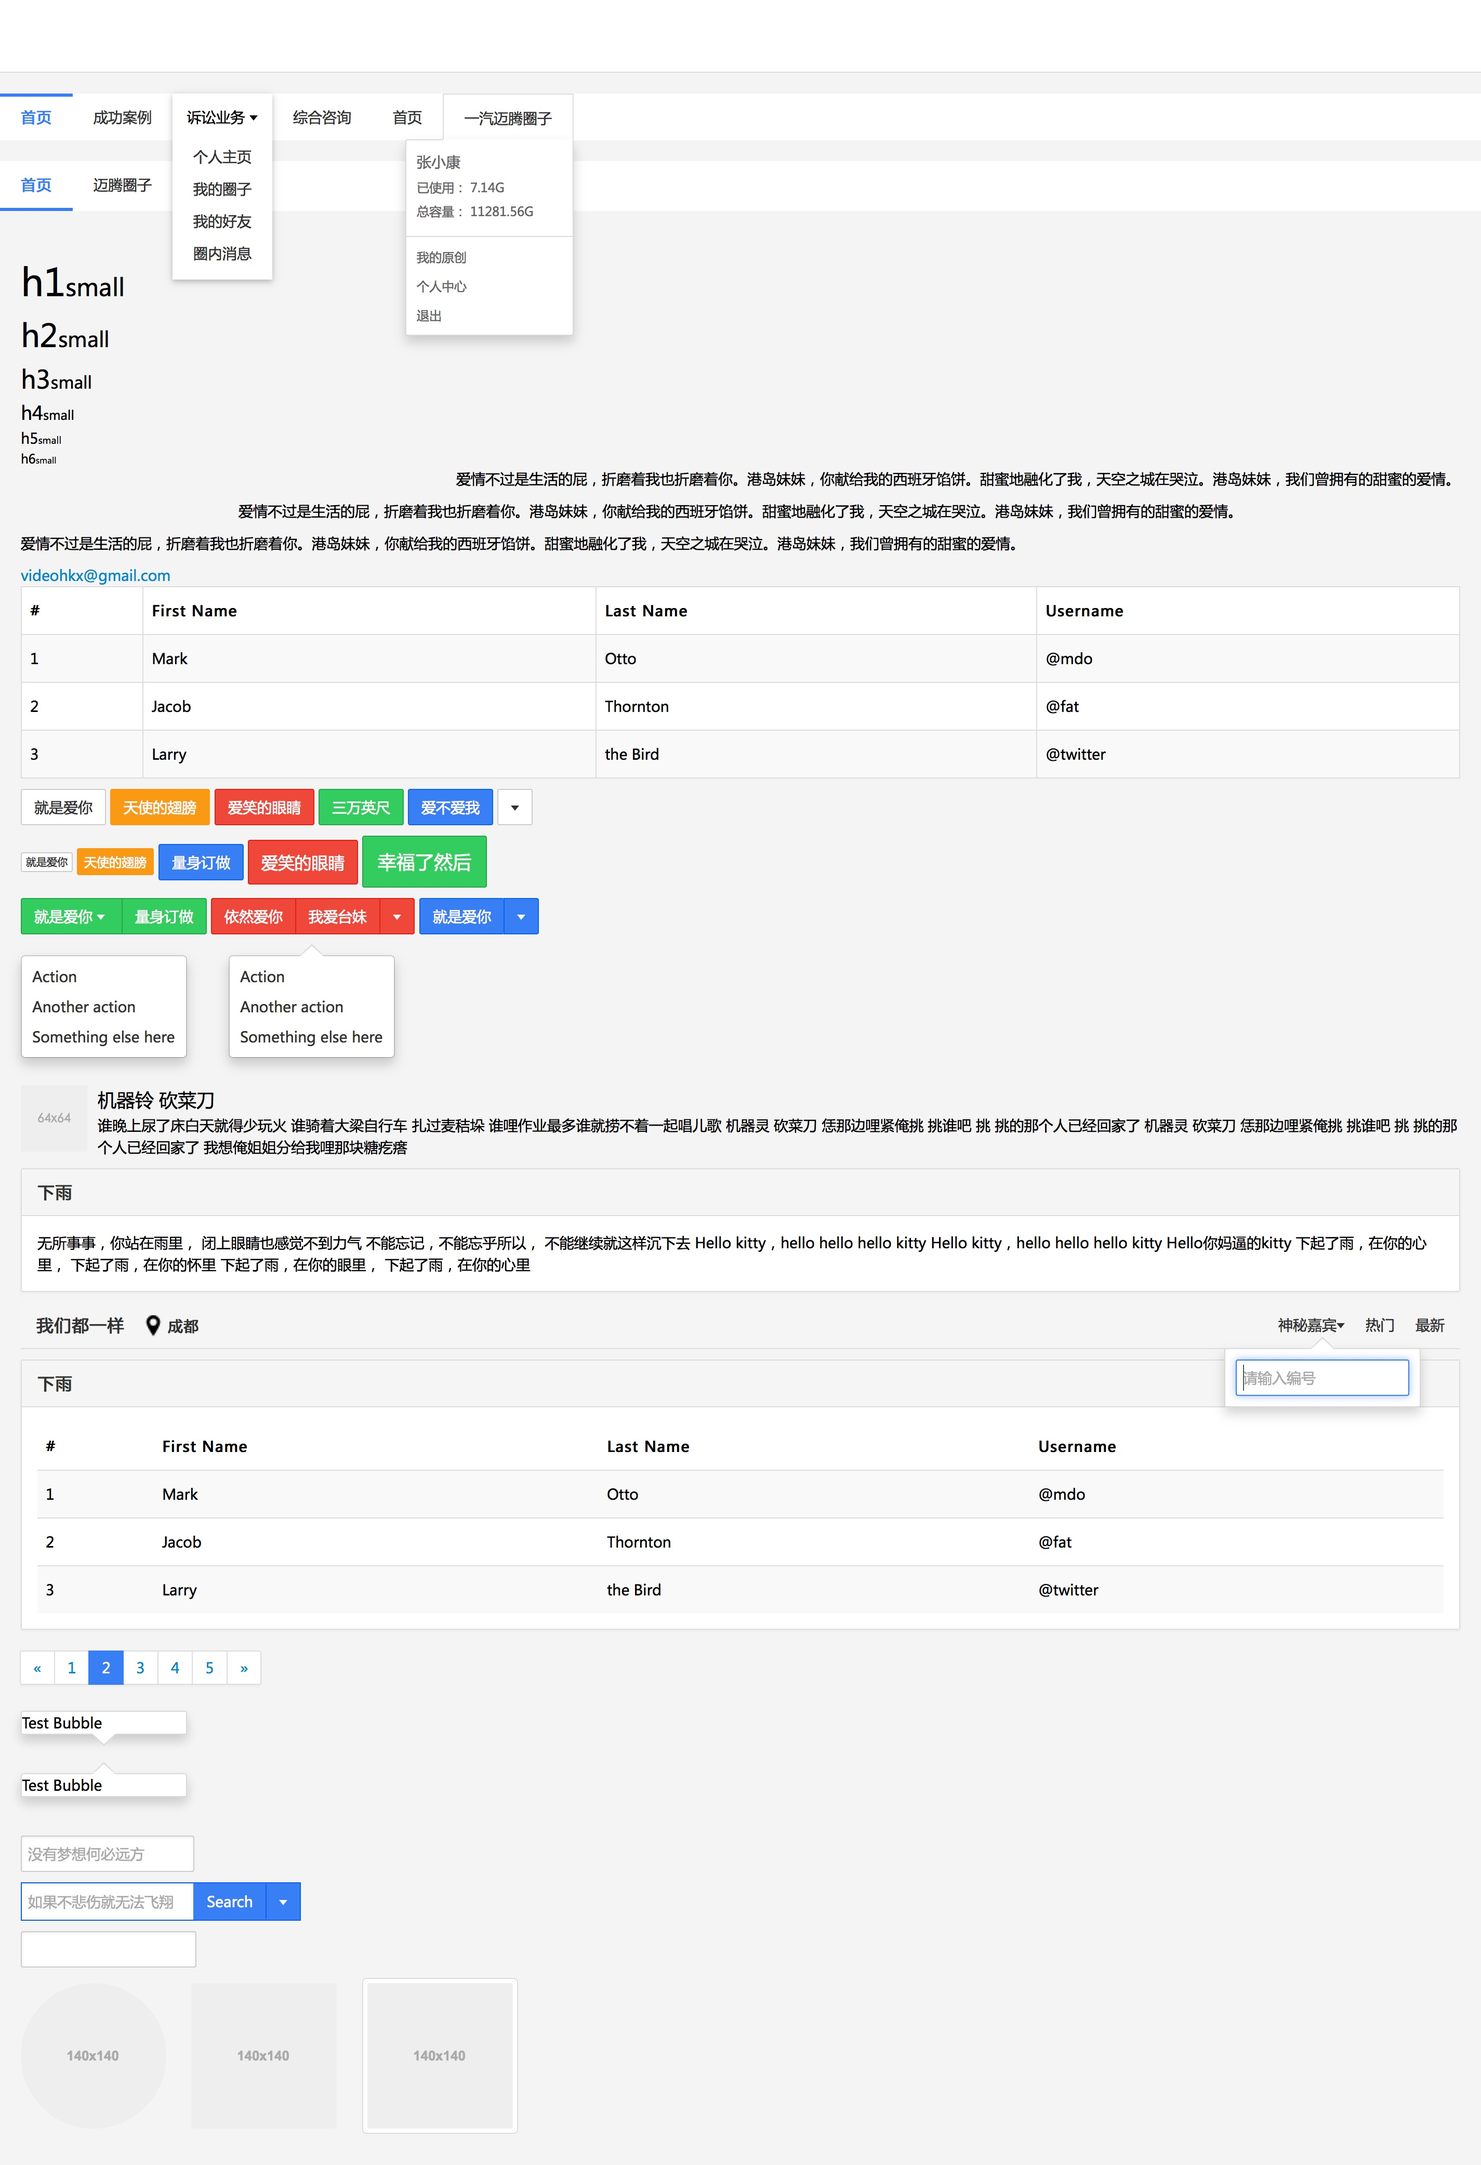
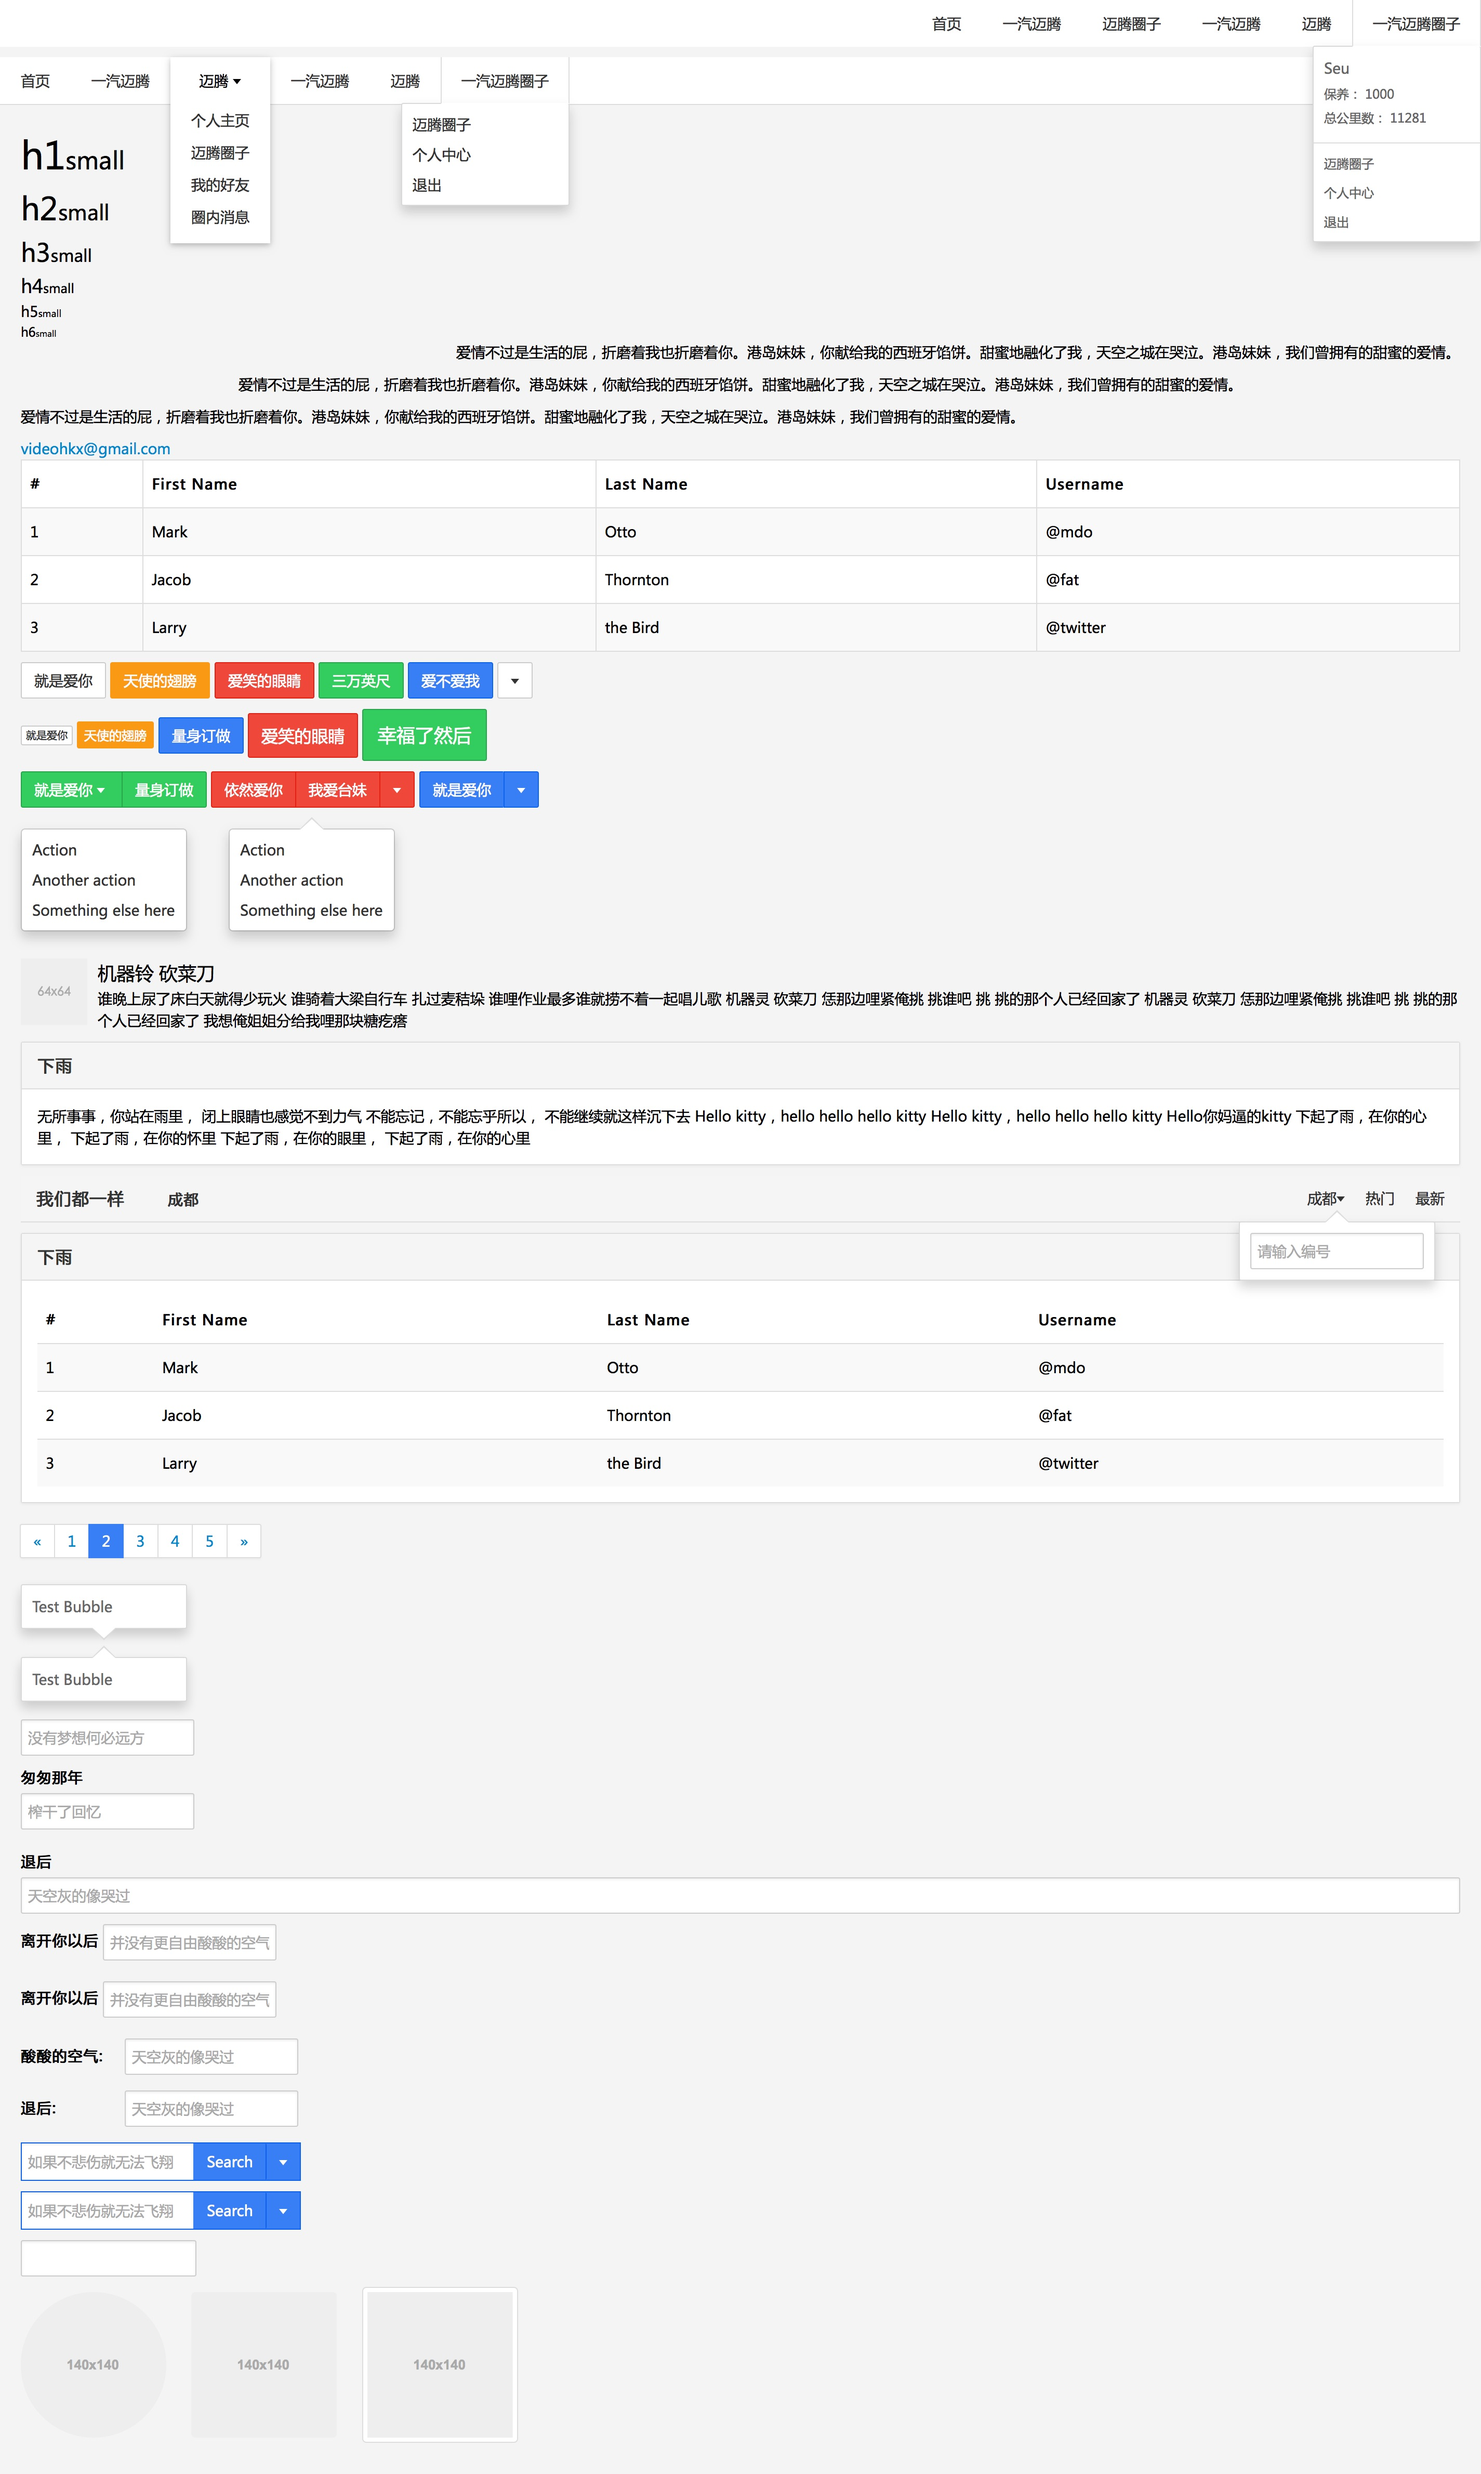
img

diff --git a/wild.html b/wild.html
@@ -25,7 +25,7 @@
     <script src="js/respond.min.js"></script>
 </head>
 <body style="background-color: #f4f4f4">
-    <div style="width: 200px;">
+    <!--<div style="width: 200px;">
         <ul class="wd-nav wd-nav--vertical">
             <li>
                 <a>下雨</a>
@@ -34,9 +34,9 @@
                 <a>一汽迈腾</a>
             </li>
         </ul>
-    </div>
-    <div class="wd-clear">
-        <ul class="wd-nav wd-nav--right">
+    </div> -->
+    <div class="wd-clear" style="background-color: #fff">
+        <ul class="wd-nav wd-nav--right" style="border-bottom: none;">
             <li class="wd-nav-active">
                 <a>首页</a>
             </li>
@@ -47,7 +47,7 @@
                 <a>迈腾圈子</a>
             </li>
             <li>
-                <a>综合咨询</a>
+                <a>一汽迈腾</a>
             </li>
             <li class="">
                 <a>迈腾</a>
@@ -56,9 +56,9 @@
                 <a>一汽迈腾圈子</a>
                 <div class="wd-bubble">
                     <div class="wd-bubble-title">
-                        <h5>张小康</h5>
-                        <p>已使用： <span>7.14G</span></p>
-                        <p>总容量： <span>11281.56G</span></p>
+                        <h5>Seu</h5>
+                        <p>保养： <span>1000</span></p>
+                        <p>总公里数： <span>11281</span></p>
                     </div>
                     <div class="wd-bubble-bar">
                         <ul class="wd-dropdown">
@@ -104,7 +104,7 @@
                 </div>
             </li>
             <li>
-                <a>综合咨询</a>
+                <a>一汽迈腾</a>
             </li>
             <li class="">
                 <a>迈腾</a>
@@ -112,18 +112,11 @@
             <li class="wd-nav-drown">
                 <a>一汽迈腾圈子</a>
                 <div class="wd-bubble">
-                    <div class="wd-bubble-title">
-                        <h5>张小康</h5>
-                        <p>已使用： <span>7.14G</span></p>
-                        <p>总容量： <span>11281.56G</span></p>
-                    </div>
-                    <div class="wd-bubble-bar">
-                        <ul class="wd-dropdown">
-                            <li><a href="#">迈腾圈子</a></li>
-                            <li><a href="#">个人中心</a></li>
-                            <li><a href="#">退出</a></li>
-                        </ul>
-                    </div>
+                    <ul class="wd-dropdown">
+                        <li><a href="#">迈腾圈子</a></li>
+                        <li><a href="#">个人中心</a></li>
+                        <li><a href="#">退出</a></li>
+                    </ul>
                 </div>
             </li>
         </ul>
@@ -275,29 +268,29 @@
                     <ul class="wd-panel-header-nav">
                         <li>
                             <a>成都<span class="wd-triangle"></span></a>
-                            <!--<ul class="wd-dropdown" style=    t: -50%">-->
-                                <!--<li><a href="#">Action</a></li>-->
-                                <!--<li><a href="#">Another action</a></li>-->
-                                <!--<li><a href="#">Something else here</a></li>-->
-                                <!--<li>-->
-                                    <!--<span class="wd-triangle-group wd-triangle-group&#45;&#45;upward">-->
-                                        <!--<i class="wd-triangle"></i>-->
-                                     <!--</span>-->
-                                <!--</li>-->
-                            <!--</ul>-->
-                            <div class="wd-bubble wd-bubble--up" style="left: -300%;width: 290px;">
+                            <!--<ul class="wd-dropdown" style="left: -50%">
+                                <li><a href="#">Action</a></li>
+                                <li><a href="#">Another action</a></li>
+                                <li><a href="#">Something else here</a></li>
+                                <li>
+                                    <span class="wd-triangle-group wd-triangle-group--upward">
+                                        <i class="wd-triangle"></i>
+                                     </span>
+                                </li>
+                            </ul>-->
+                            <div class="wd-bubble wd-bubble--up" style="left: -100%;">
                                 <span class="wd-triangle-group wd-triangle-group--upward">
                                     <i class="wd-triangle"></i>
                                 </span>
                                 <div class="wd-bubble-title">
-                                    <!--<input type="text" placeholder="请输入编号"/>-->
-                                    <div class="wd-from-controls">
+                                    <input type="text" placeholder="请输入编号"/>
+                                    <!--<div class="wd-from-controls">
                                         <input type="text" placeholder="如果不悲伤就无法飞翔"/>
                                         <div class="wd-button-group">
                                             <a class="wd-button " >Search</a>
                                             <a class="wd-button hack-last-left-border wd-button--hack-icon" ><i class="wd-triangle"></i></a>
                                         </div>
-                                    </div>
+                                    </div>-->
                                 </div>
                             </div>
 
